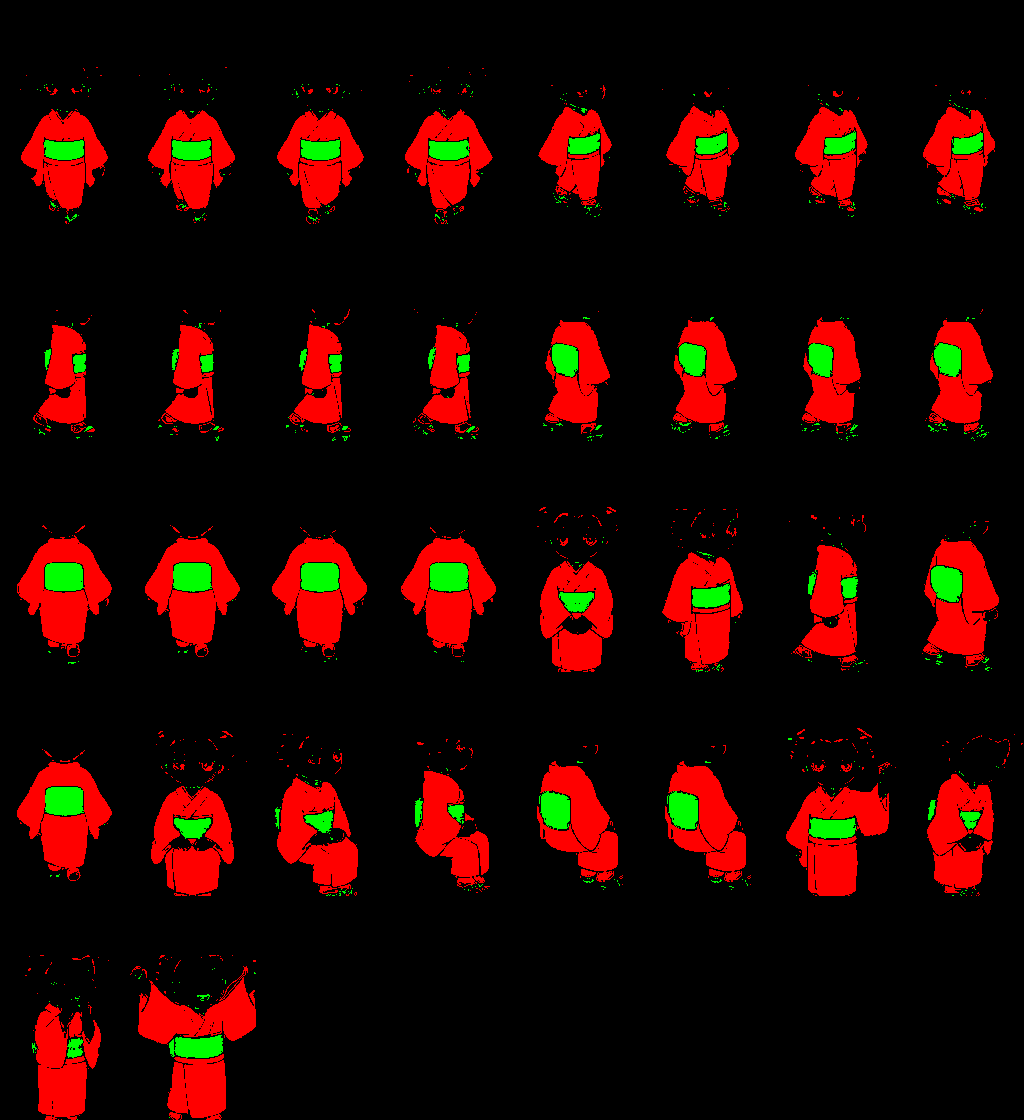
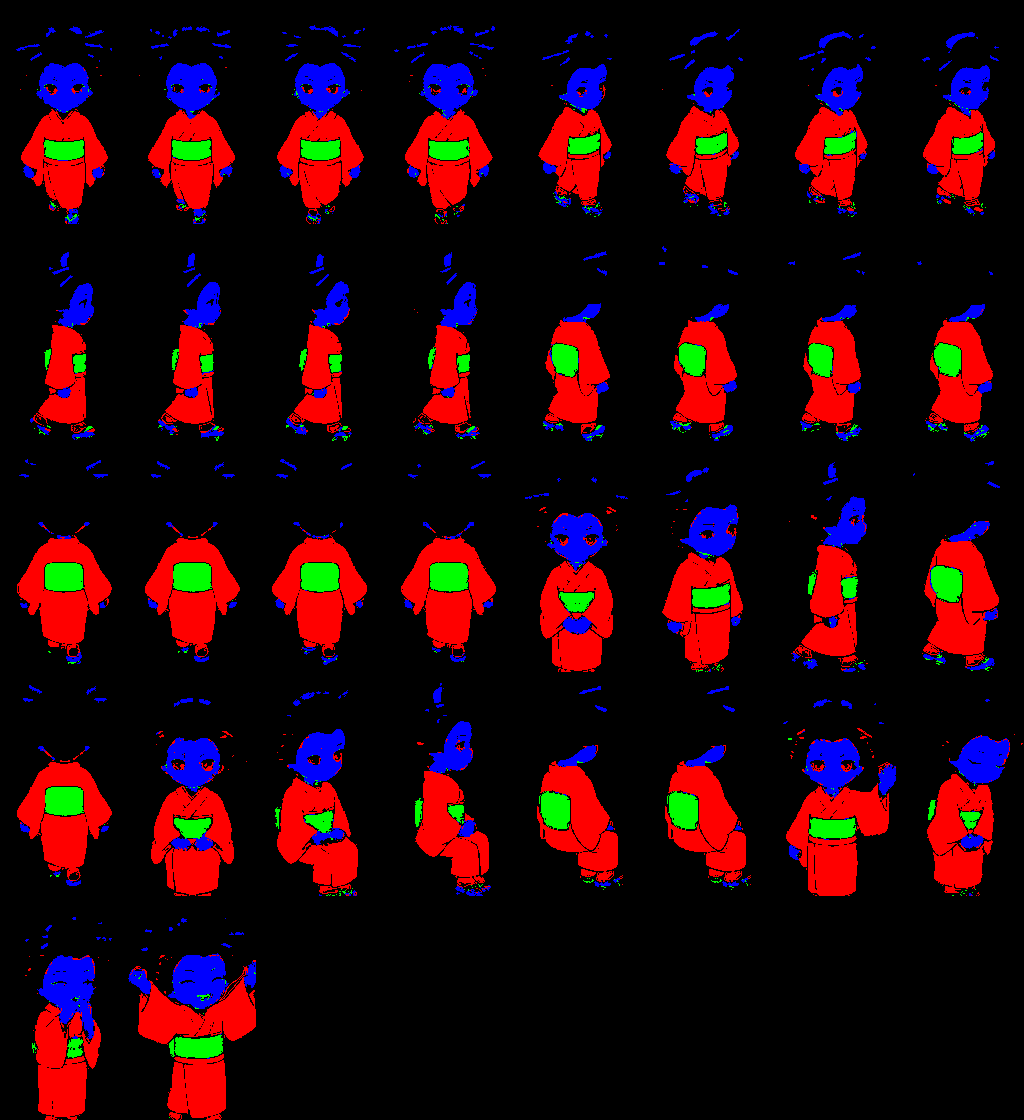
人物可以選膚色了：換裝面板新增「膚色」（白皙／自然／小麥色），臉、脖子、手腳一起換色，NPC 也會有不同膚色；工具：tools/skin_mask.py 自動產生皮膚遮罩、測試腳本支援新電腦的 Chrome 路徑
Claude-Session: https://claude.ai/code/session_015uMb1f52jTuSYsWXuczzAi

diff --git a/js/game.js b/js/game.js
@@ -5,25 +5,25 @@ import { EffectComposer } from 'three/addons/postprocessing/EffectComposer.js';
 import { RenderPass } from 'three/addons/postprocessing/RenderPass.js';
 import { UnrealBloomPass } from 'three/addons/postprocessing/UnrealBloomPass.js';
 import { OutputPass } from 'three/addons/postprocessing/OutputPass.js';
-import { buildWorld, walkable, heightAt } from './world.js?v=202611240236';
-import { RIDE_Y } from './chara.js?v=202611240236';
-import { Chara, randomLook, KIMONO, OBI, PATTERNS, HAIRS, SKINS, EYES, BROWS, MOUTHS, CHEEKS, MOLES, FACES, OUTFITS, OUTER, FEATS } from './chara.js?v=202611240236';
-import { SChara, preloadSprites, spritesReady, setSprCam, SPR_LIGHT, ARCH_LIST, ARCH_NAME, AR2H, archOf } from './sprite.js?v=202611240236';
-import { SHOPS, FORTUNE, ACC, SLOT_NAME } from './shops.js?v=202611240236';
-import { initMatsuri, updMatsuri, FEST, nextFestIn } from './matsuri.js?v=202611240236';
-import { Net } from './net.js?v=202611240236';
-import { cleanText } from './filter.js?v=202611240236';
-import { SND } from './audio.js?v=202611240236';
-import * as TX from './tex.js?v=202611240236';
-import * as P from './prog.js?v=202611240236';
-import * as F from './fishing.js?v=202611240236';
-import * as HM from './home.js?v=202611240236';
-import * as HN from './hanamachi.js?v=202611240236';
-import * as JB from './jobs.js?v=202611240236';
-import * as FM from './farm.js?v=202611240236';
-import * as ON from './onsen.js?v=202611240236';
-import * as SO from './social.js?v=202611240236';
-import { updBoats } from './kashi.js?v=202611240236';
+import { buildWorld, walkable, heightAt } from './world.js?v=202611240915';
+import { RIDE_Y } from './chara.js?v=202611240915';
+import { Chara, randomLook, KIMONO, OBI, PATTERNS, HAIRS, SKINS, EYES, BROWS, MOUTHS, CHEEKS, MOLES, FACES, OUTFITS, OUTER, FEATS } from './chara.js?v=202611240915';
+import { SChara, preloadSprites, spritesReady, setSprCam, SPR_LIGHT, ARCH_LIST, ARCH_NAME, AR2H, archOf } from './sprite.js?v=202611240915';
+import { SHOPS, FORTUNE, ACC, SLOT_NAME } from './shops.js?v=202611240915';
+import { initMatsuri, updMatsuri, FEST, nextFestIn } from './matsuri.js?v=202611240915';
+import { Net } from './net.js?v=202611240915';
+import { cleanText } from './filter.js?v=202611240915';
+import { SND } from './audio.js?v=202611240915';
+import * as TX from './tex.js?v=202611240915';
+import * as P from './prog.js?v=202611240915';
+import * as F from './fishing.js?v=202611240915';
+import * as HM from './home.js?v=202611240915';
+import * as HN from './hanamachi.js?v=202611240915';
+import * as JB from './jobs.js?v=202611240915';
+import * as FM from './farm.js?v=202611240915';
+import * as ON from './onsen.js?v=202611240915';
+import * as SO from './social.js?v=202611240915';
+import { updBoats } from './kashi.js?v=202611240915';
 
 const SERVER = new URLSearchParams(location.search).has('test') ? '' : (new URLSearchParams(location.search).get('server') || window.EDO_SERVER || '');
 const QS = new URLSearchParams(location.search);
@@ -1412,7 +1412,7 @@ function buildTitle() {
   $('#nameIn').value = G.name; $('#gmIn').value = store.get('gmk', ''); if (store.get('gmk', '')) { show('#gmModeRow'); $('#gmMode').checked = store.get('gmMode', true); document.body.classList.add('hasgm'); }
   $('#gmIn').addEventListener('input', () => { if ($('#gmIn').value.trim()) { show('#gmModeRow'); $('#gmMode').checked = true; } }); { let taps = [], lg = document.querySelector('#title .logo h1'); lg.style.pointerEvents = 'auto'; lg.addEventListener('pointerdown', () => { const t = performance.now(); taps = taps.filter(x => t - x < 2500); taps.push(t); if (taps.length >= 5) { taps = []; $('#gmRow').classList.toggle('hide'); } }); }
   const rows = [['k', '和服', KIMONO.map(k => k[1]), KIMONO.map(k => k[0])], ['p', '花紋', null, PATTERNS], ['o', '腰帶', OBI, null], ['h', '髮型', null, HAIRS], ['s', '膚色', SKINS, null], ['y', '衣裝', null, OUTFITS], ['yc', '外衣色', OUTER, null], ['ey', '眼睛', null, EYES], ['br', '眉毛', null, BROWS], ['mo', '嘴巴', null, MOUTHS], ['ck', '腮紅', null, CHEEKS], ['mk', '痣', null, MOLES], ['ft', '特徵', null, FEATS]];
-  if (NPCChara === SChara) { rows.splice(0, rows.length, rows[0], rows[1], rows[2], ['ai', '髮型', null, ARCH_LIST.map(n => ARCH_NAME[n])]); if (G.look.ai == null || G.look.aiH !== G.look.h) { G.look.ai = ARCH_LIST.indexOf(archOf(G.look)); G.look.aiH = G.look.h; } }
+  if (NPCChara === SChara) { rows.splice(0, rows.length, rows[0], rows[1], rows[2], ['ai', '髮型', null, ARCH_LIST.map(n => ARCH_NAME[n])], rows[4]); if (G.look.ai == null || G.look.aiH !== G.look.h) { G.look.ai = ARCH_LIST.indexOf(archOf(G.look)); G.look.aiH = G.look.h; } }
   $('#looks').innerHTML = rows.map(([k, t, cols, names]) => `<div class="lr"><span>${t}</span><div>${(cols || names).map((c, i) => cols ? `<button class="sw" data-k="${k}" data-v="${i}" style="background:${c}" title="${names ? names[i] : ''}"></button>` : `<button class="tx" data-k="${k}" data-v="${i}">${c}</button>`).join('')}</div></div>`).join('');
   ['ey', 'br', 'mo', 'ck', 'mk', 'fc', 'y', 'yc', 'ft'].forEach(k => { if (G.look[k] == null) G.look[k] = k === 'ck' || k === 'fc' ? 1 : 0; });
   const sync = () => document.querySelectorAll('#looks [data-k]').forEach(b => b.classList.toggle('on', G.look[b.dataset.k] == b.dataset.v));
@@ -1763,7 +1763,7 @@ if (isTouch) document.body.classList.add('touch');
 
 // ---------- 自動測試 ?test=flow ----------
 async function runTest() {
-  const log = []; let fail = false; const ok = (c, m) => { log.push((c ? '✔ ' : '✘ ') + m); if (!c) fail = true; };
+  const log = []; let fail = false; const ok = (c, m) => { log.push((c ? '✔ ' : '✘ ') + m); if (!c) fail = true; console.log('[TEST] ' + log.length + ' ' + log[log.length - 1]); };
   const sleep = ms => new Promise(r => setTimeout(r, ms));
   const until = async (f, ms = 45000) => { const t0 = performance.now(); while (!f() && performance.now() - t0 < ms) await sleep(50); return f(); };
   const near_ = () => near;

diff --git a/js/sprite.js b/js/sprite.js
@@ -1,9 +1,9 @@
 // 2D 手繪立繪人物（RO 式紙娃娃）：一個面向鏡頭的平面＋換色著色器；每人 1 次繪製
 // SChara 與 3D 的 Chara 介面相同（root、setLook、play、update、say、emoji、setName、lod、setRide、updRide、headG、foodG、accG、waistG），遊戲端直接替換
 import * as THREE from 'three';
-import { Chara, KIMONO, OBI } from './chara.js?v=202611240236';
-import * as TX from './tex.js?v=202611240236';
-import { ACC } from './shops.js?v=202611240236';
+import { Chara, KIMONO, OBI, SKINS } from './chara.js?v=202611240915';
+import * as TX from './tex.js?v=202611240915';
+import { ACC } from './shops.js?v=202611240915';
 
 const ATLAS = {}; // 原型名 → { tex, mask, meta }
 export const ARCH_LIST = ['f1', 'f2', 'f3', 'f4', 'm1', 'm2', 'm3', 'm4', 'f5', 'f6', 'f7', 'f8', 'f9', 'm5', 'oi']; // 新的只能接在後面（玩家存的是編號）
@@ -51,7 +51,7 @@ export class SChara {
     this.arms = [-1, 1].map(sx => { const g = new THREE.Group(); g.position.set(sx * .2, .95, .08); this.root.add(g); return g; }); // 手的掛點（提燈籠、扛轎）
     this.blob = new THREE.Mesh(BLOB_G, BLOB_M); this.blob.rotation.x = -Math.PI / 2; this.blob.position.y = .012; this.blob.renderOrder = -1; this.root.add(this.blob);
     this.u = { uMask: { value: null }, uRect: { value: new THREE.Vector4(0, 0, 1, 1) }, uFlip: { value: 0 }, uKim: { value: new THREE.Color('#9fb8e8') }, uObi: { value: new THREE.Color('#e8b84a') },
-      uPat: { value: null }, uPatOn: { value: 0 }, uPatS: { value: 6 }, uLight: SPR_LIGHT, uStep: { value: 0 } };
+      uPat: { value: null }, uPatOn: { value: 0 }, uPatS: { value: 6 }, uLight: SPR_LIGHT, uStep: { value: 0 }, uSkin: { value: new THREE.Color(1, 1, 1) } };
     this.setLook(look);
     this.name = name; if (name) this.setName(name);
   }
@@ -61,7 +61,7 @@ export class SChara {
     this.A = A; this.u.uMask.value = A.mask;
     const m = new THREE.MeshBasicMaterial({ map: A.tex, alphaTest: .5 });
     m.onBeforeCompile = sh => { Object.assign(sh.uniforms, this.u);
-      sh.fragmentShader = sh.fragmentShader.replace('#include <common>', '#include <common>\nuniform sampler2D uMask, uPat; uniform vec4 uRect; uniform float uFlip, uPatOn, uPatS, uStep; uniform vec3 uKim, uObi, uLight;')
+      sh.fragmentShader = sh.fragmentShader.replace('#include <common>', '#include <common>\nuniform sampler2D uMask, uPat; uniform vec4 uRect; uniform float uFlip, uPatOn, uPatS, uStep; uniform vec3 uKim, uObi, uLight, uSkin;')
         .replace('#include <map_fragment>', `
           vec2 uv0 = vMapUv; if (uFlip > .5) uv0.x = 1. - uv0.x;
           if (uStep != 0.) { float sd = smoothstep(.44, .56, uv0.x); float lift = mix(max(uStep, 0.), max(-uStep, 0.), sd) * .085 * smoothstep(.3, .06, uv0.y); uv0.y -= lift; if (uv0.y < .005) discard; }
@@ -71,10 +71,11 @@ export class SChara {
           vec3 kim = uPatOn > .5 ? texture2D(uPat, a * uPatS).rgb : uKim;
           c.rgb = mix(c.rgb, kim * clamp(l / .5, .2, 1.25), mk.r);
           c.rgb = mix(c.rgb, uObi * clamp(c.r / .45, .2, 1.3), mk.g);
+          c.rgb *= mix(vec3(1.), uSkin, mk.b); /* 膚色：遮罩 B＝皮膚，乘上與預設膚色的比例 */
           c.rgb *= uLight;
           diffuseColor *= c;`);
     };
-    m.customProgramCacheKey = () => 'schara2';
+    m.customProgramCacheKey = () => 'schara3';
     this.mat = m; this.mesh = new THREE.Mesh(geoFor(A.meta.fw, A.meta.fh), m); this.root.add(this.mesh);
     if (!this.accP) this.accP = new THREE.Group(); this.mesh.add(this.accP);
   }
@@ -83,6 +84,7 @@ export class SChara {
     const A = (this.gm && ATLAS.oi) || ATLAS[archOf(lk)] || ATLAS.f1; if (A) this._mesh(A);
     if (this.mesh) this.mesh.scale.setScalar(A === ATLAS.oi ? 1.4 : 1); this._aura(A === ATLAS.oi);
     const kc = (KIMONO[lk.k % KIMONO.length] || KIMONO[0])[1];
+    { const s0 = new THREE.Color(SKINS[0]), s1 = new THREE.Color(SKINS[(lk.s || 0) % SKINS.length]); const k = 1.8; this.u.uSkin.value.setRGB((s1.r / s0.r) ** k, (s1.g / s0.g) ** k, (s1.b / s0.b) ** k); } /* 立繪較亮，差距放大才看得出來 */
     this.u.uKim.value.set(lk.kc || kc); this.u.uObi.value.set(lk.oc || OBI[lk.o % OBI.length]);
     if (lk.p) { this.u.uPat.value = TX.pattern(lk.p, kc, lk.k === 9 ? '#5a5a66' : '#f4efe2'); this.u.uPatOn.value = 1; } else { this.u.uPat.value = null; this.u.uPatOn.value = 0; }
     this.foodG.clear(); Chara.prototype.addHeld.call(this, lk);

diff --git a/js/world.js b/js/world.js
@@ -1,16 +1,16 @@
 // 江戶町 3D 世界
 import * as THREE from 'three';
 import { mergeGeometries } from 'three/addons/utils/BufferGeometryUtils.js';
-import * as TX from './tex.js?v=202611240236';
-import { SHOPS, STREET } from './shops.js?v=202611240236';
-import { buildTemple } from './temple.js?v=202611240236';
-import { buildMeisho, KINKAKU_POND } from './meisho.js?v=202611240236';
-import { buildMeisho2, walkSouth } from './meisho2.js?v=202611240236';
-import { buildKashi, walkKashi } from './kashi.js?v=202611240236';
-import { buildHomeArea, walkHome } from './home.js?v=202611240236';
-import { buildHana, walkHana } from './hanamachi.js?v=202611240236';
-import { buildFarm, walkFarm } from './farm.js?v=202611240236';
-import { buildOnsen, buildYoichi, walkOnsen } from './onsen.js?v=202611240236';
+import * as TX from './tex.js?v=202611240915';
+import { SHOPS, STREET } from './shops.js?v=202611240915';
+import { buildTemple } from './temple.js?v=202611240915';
+import { buildMeisho, KINKAKU_POND } from './meisho.js?v=202611240915';
+import { buildMeisho2, walkSouth } from './meisho2.js?v=202611240915';
+import { buildKashi, walkKashi } from './kashi.js?v=202611240915';
+import { buildHomeArea, walkHome } from './home.js?v=202611240915';
+import { buildHana, walkHana } from './hanamachi.js?v=202611240915';
+import { buildFarm, walkFarm } from './farm.js?v=202611240915';
+import { buildOnsen, buildYoichi, walkOnsen } from './onsen.js?v=202611240915';
 
 const PI = Math.PI;
 export const ARCH = x => (x > 110 && x < 140) ? 1.7 * Math.sin(PI * (x - 110) / 30) : 0;

diff --git a/index.html b/index.html
@@ -389,6 +389,6 @@ body.touch #held{left:calc(12px + var(--sl));bottom:auto;top:calc(100px + var(--
 </div></div>
 <div id="toast"></div>
 <script>addEventListener("error",e=>{const d=document.getElementById("loading");d.classList.remove("hide");d.style.fontSize="16px";d.textContent="錯誤："+e.message+" @"+(e.filename||"").split("/").pop()+":"+e.lineno});addEventListener("unhandledrejection",e=>{const d=document.getElementById("loading");d.classList.remove("hide");d.style.fontSize="16px";d.textContent="錯誤："+(e.reason&&e.reason.stack||e.reason)})</script>
-<script type="module" src="js/game.js?v=202611240236"></script>
+<script type="module" src="js/game.js?v=202611240915"></script>
 </body>
 </html>

diff --git a/js/meisho.js b/js/meisho.js
@@ -1,7 +1,7 @@
 // 江戶町 名所：雷門、海上大鳥居（嚴島）、千本鳥居（伏見稻荷）、金閣寺（鹿苑寺）、五重塔
 // 靜態物件全部 bake 進合併網格（不增加繪製次數）；走近按 E 有特寫與介紹
 import * as THREE from 'three';
-import { hipRoof } from './temple.js?v=202611240236';
+import { hipRoof } from './temple.js?v=202611240915';
 const PI = Math.PI;
 
 export const KINKAKU_POND = { x: 180, z: 78, rx: 21, rz: 15 }; // 金閣寺鏡湖池（不可走入）

diff --git a/js/meisho2.js b/js/meisho2.js
@@ -1,7 +1,7 @@
 // 江戶町 名所南區（神社南門出去）：江戶城天守、不忍池弁天堂、歌舞伎中村座、回向院相撲土俵
 // 靜態物件全部 bake 進合併網格；走近按 E 有特寫與介紹
 import * as THREE from 'three';
-import { hipRoof } from './temple.js?v=202611240236';
+import { hipRoof } from './temple.js?v=202611240915';
 const PI = Math.PI;
 
 export const SHINOBAZU = { x: -122, z: 102, rx: 15, rz: 11, isl: 4.6 }; // 不忍池（中島可走、北側石橋）

diff --git a/js/prog.js b/js/prog.js
@@ -1,6 +1,6 @@
 // 町人帳：個人進度（等級／稱號、每日簽到、町人委託、圖鑑、存檔備份）
 // 存在瀏覽器 localStorage（edo_save_<暱稱>），另可匯出／匯入備份碼
-import { SHOPS, ACC } from './shops.js?v=202611240236';
+import { SHOPS, ACC } from './shops.js?v=202611240915';
 
 let A = null; // game.js 傳進來的介面
 let S = null; // 目前存檔

diff --git a/js/chara.js b/js/chara.js
@@ -1,6 +1,6 @@
 // 江戶人物（程式建模 v2）：有膝蓋的雙腿、上身＋下襬、細緻臉部、和服袖、足袋木屐、髮型、配件、花魁
 import * as THREE from 'three';
-import * as TX from './tex.js?v=202611240236';
+import * as TX from './tex.js?v=202611240915';
 import { mergeGeometries } from '../vendor/addons/utils/BufferGeometryUtils.js';
 
 export const KIMONO = [

diff --git a/js/fishing.js b/js/fishing.js
@@ -1,5 +1,5 @@
 // 釣魚（隅田川棧橋）、魚河岸賣魚、搬貨打工
-import { FISH, rollFish } from './kashi.js?v=202611240236';
+import { FISH, rollFish } from './kashi.js?v=202611240915';
 let A, GEN = 0; // GEN：每開一次小遊戲 +1，舊的畫面迴圈自動停止
 const $ = s => document.querySelector(s);
 const stars = r => r ? '★'.repeat(r) : '—';

diff --git a/tools/skin_mask.py b/tools/skin_mask.py
@@ -1,0 +1,46 @@
+# 立繪膚色遮罩：在 img/spr/<原型>_m.png 的藍色通道標出皮膚（臉、脖子、手、腳），遊戲裡依 look.s 換膚色。
+# 用法：python -I tools/skin_mask.py [原型…]   （不給＝全部）；--preview 另存 shots/skin_<原型>.png
+# 只改 _m.png 的 B 通道，不重跑 sprite_cut（f9 歡呼、m3 長椅線的手動修正不受影響）。
+import sys, os, glob
+import numpy as np
+from PIL import Image
+
+ROOT = os.path.join(os.path.dirname(os.path.abspath(__file__)), '..')
+SPR = os.path.join(ROOT, 'img', 'spr')
+
+def hsv(rgb):
+    mx = rgb.max(-1); mn = rgb.min(-1); d = np.maximum(mx - mn, 1e-6)
+    r, g, b = rgb[..., 0], rgb[..., 1], rgb[..., 2]
+    h = np.where(mx == r, ((g - b) / d) % 6, np.where(mx == g, (b - r) / d + 2, (r - g) / d + 4)) * 60
+    s = np.where(mx > 0, (mx - mn) / np.maximum(mx, 1e-6), 0)
+    return h, s, mx
+
+def dilate(m, n=1):
+    for _ in range(n):
+        p = np.pad(m, 1)
+        m = p[1:-1, 1:-1] | p[:-2, 1:-1] | p[2:, 1:-1] | p[1:-1, :-2] | p[1:-1, 2:]
+    return m
+
+def run(name, preview=False):
+    a = np.array(Image.open(os.path.join(SPR, name + '.png')).convert('RGBA')).astype(float) / 255
+    mp = os.path.join(SPR, name + '_m.png'); m = np.array(Image.open(mp).convert('RGB'))
+    rgb, al = a[..., :3], a[..., 3]
+    h, s, v = hsv(rgb)
+    free = (al > .5) & (m[..., 0] < 128) & (m[..., 1] < 128)
+    core = free & (h > 8) & (h < 40) & (s > .1) & (s < .5) & (v > .6)
+    # 邊緣陰影：色相相同但較暗，且緊鄰核心皮膚
+    soft = free & (h > 4) & (h < 42) & (s > .08) & (s < .62) & (v > .38) & dilate(core, 2)
+    sk = core | soft
+    m[..., 2] = np.where(sk, 255, 0).astype(np.uint8)
+    Image.fromarray(m).save(mp)
+    if preview:
+        out = (rgb * 255 * .35).astype(np.uint8); out[al < .5] = 0; out[sk] = [255, 0, 255]
+        Image.fromarray(out).save(os.path.join(ROOT, 'shots', 'skin_' + name + '.png'))
+    return int(sk.sum())
+
+if __name__ == '__main__':
+    args = [x for x in sys.argv[1:] if not x.startswith('--')]
+    # oi（GM 花魁）金色和服會被誤判成皮膚，且花魁外觀固定不換膚色 → 不做
+    names = args or sorted(os.path.basename(p)[:-6] for p in glob.glob(os.path.join(SPR, '*_m.png')) if not p.endswith('oi_m.png'))
+    for n in names:
+        print(n, run(n, '--preview' in sys.argv))
